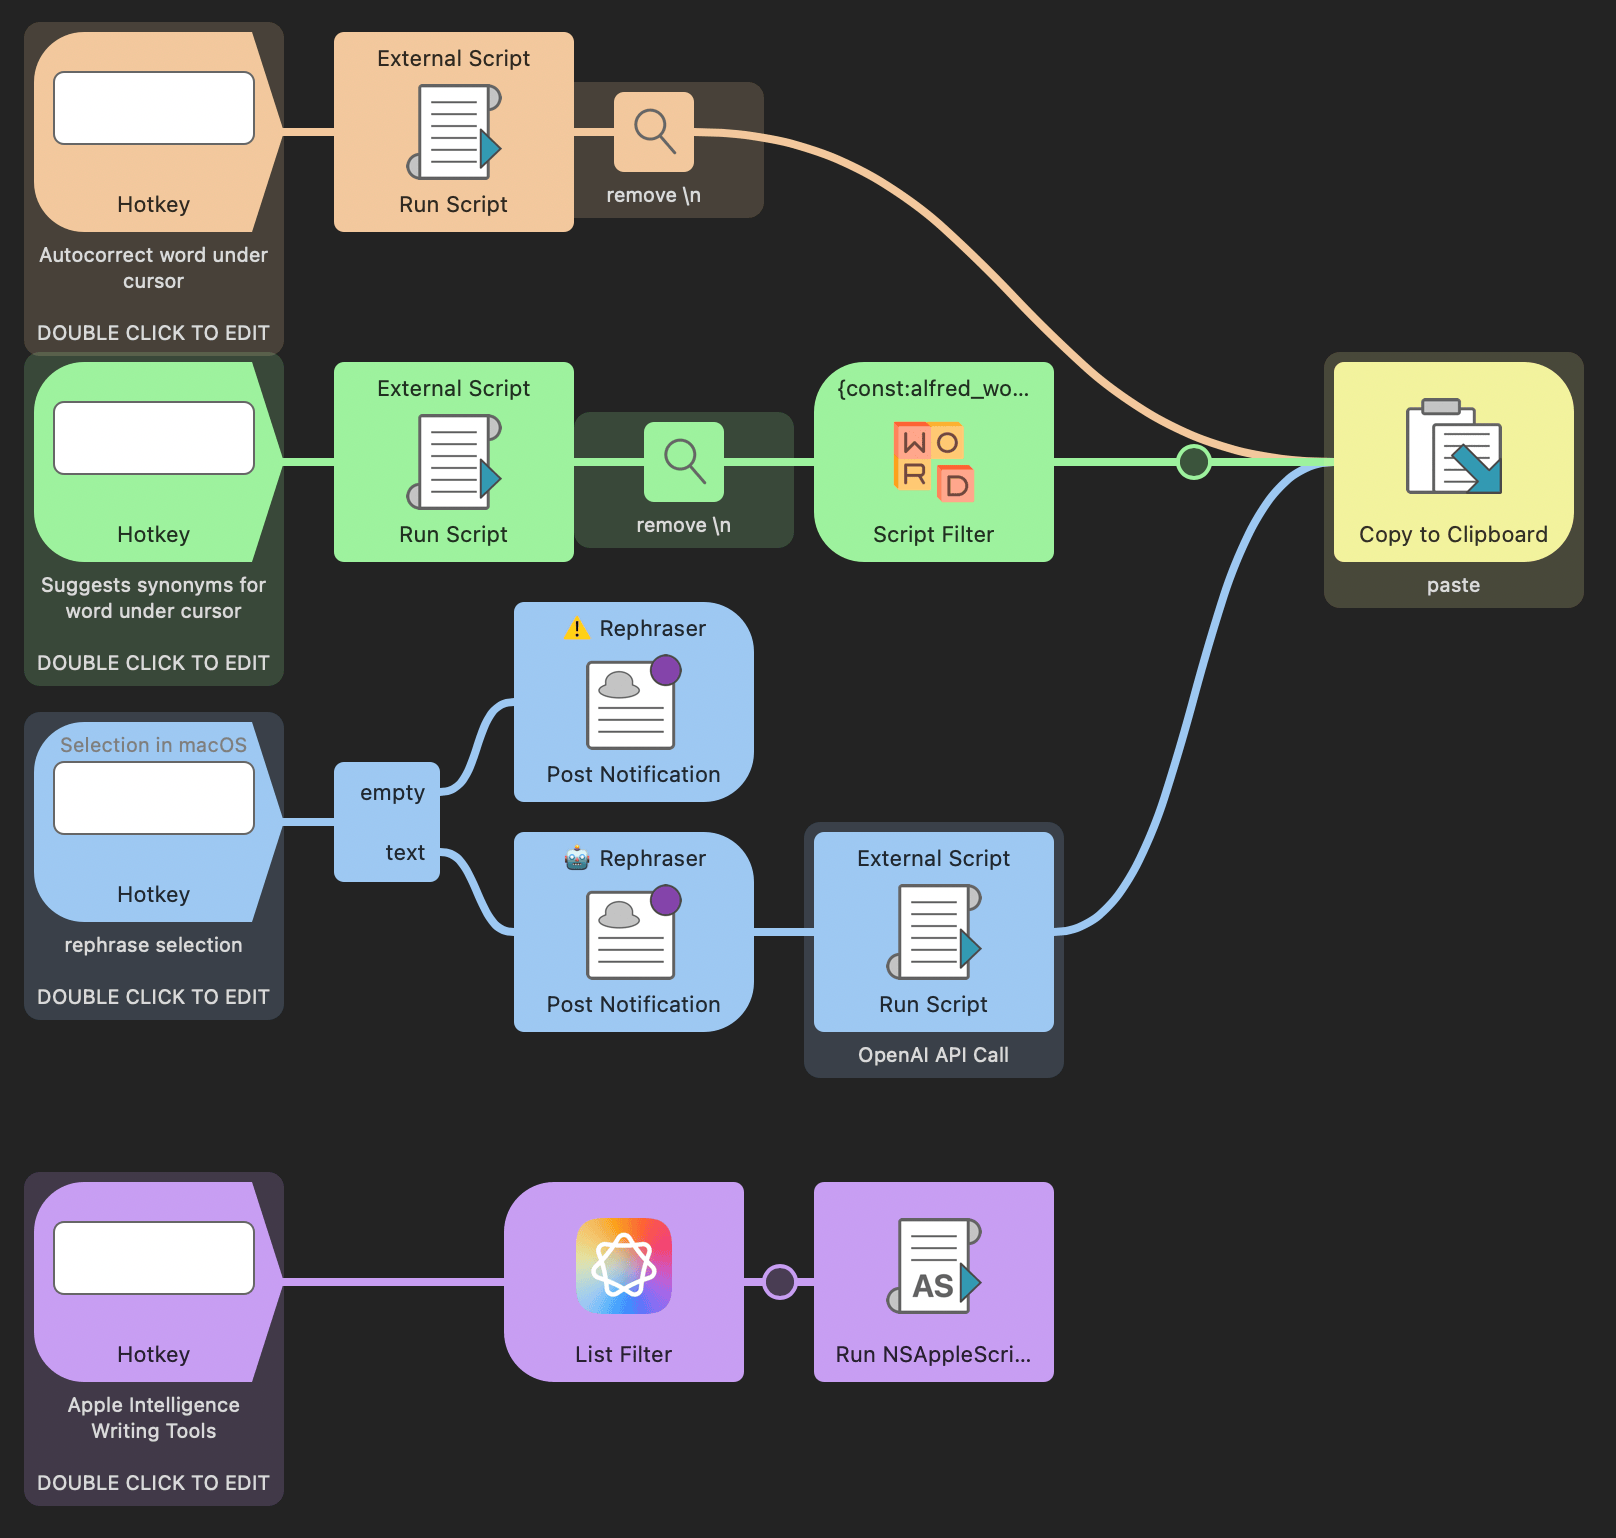
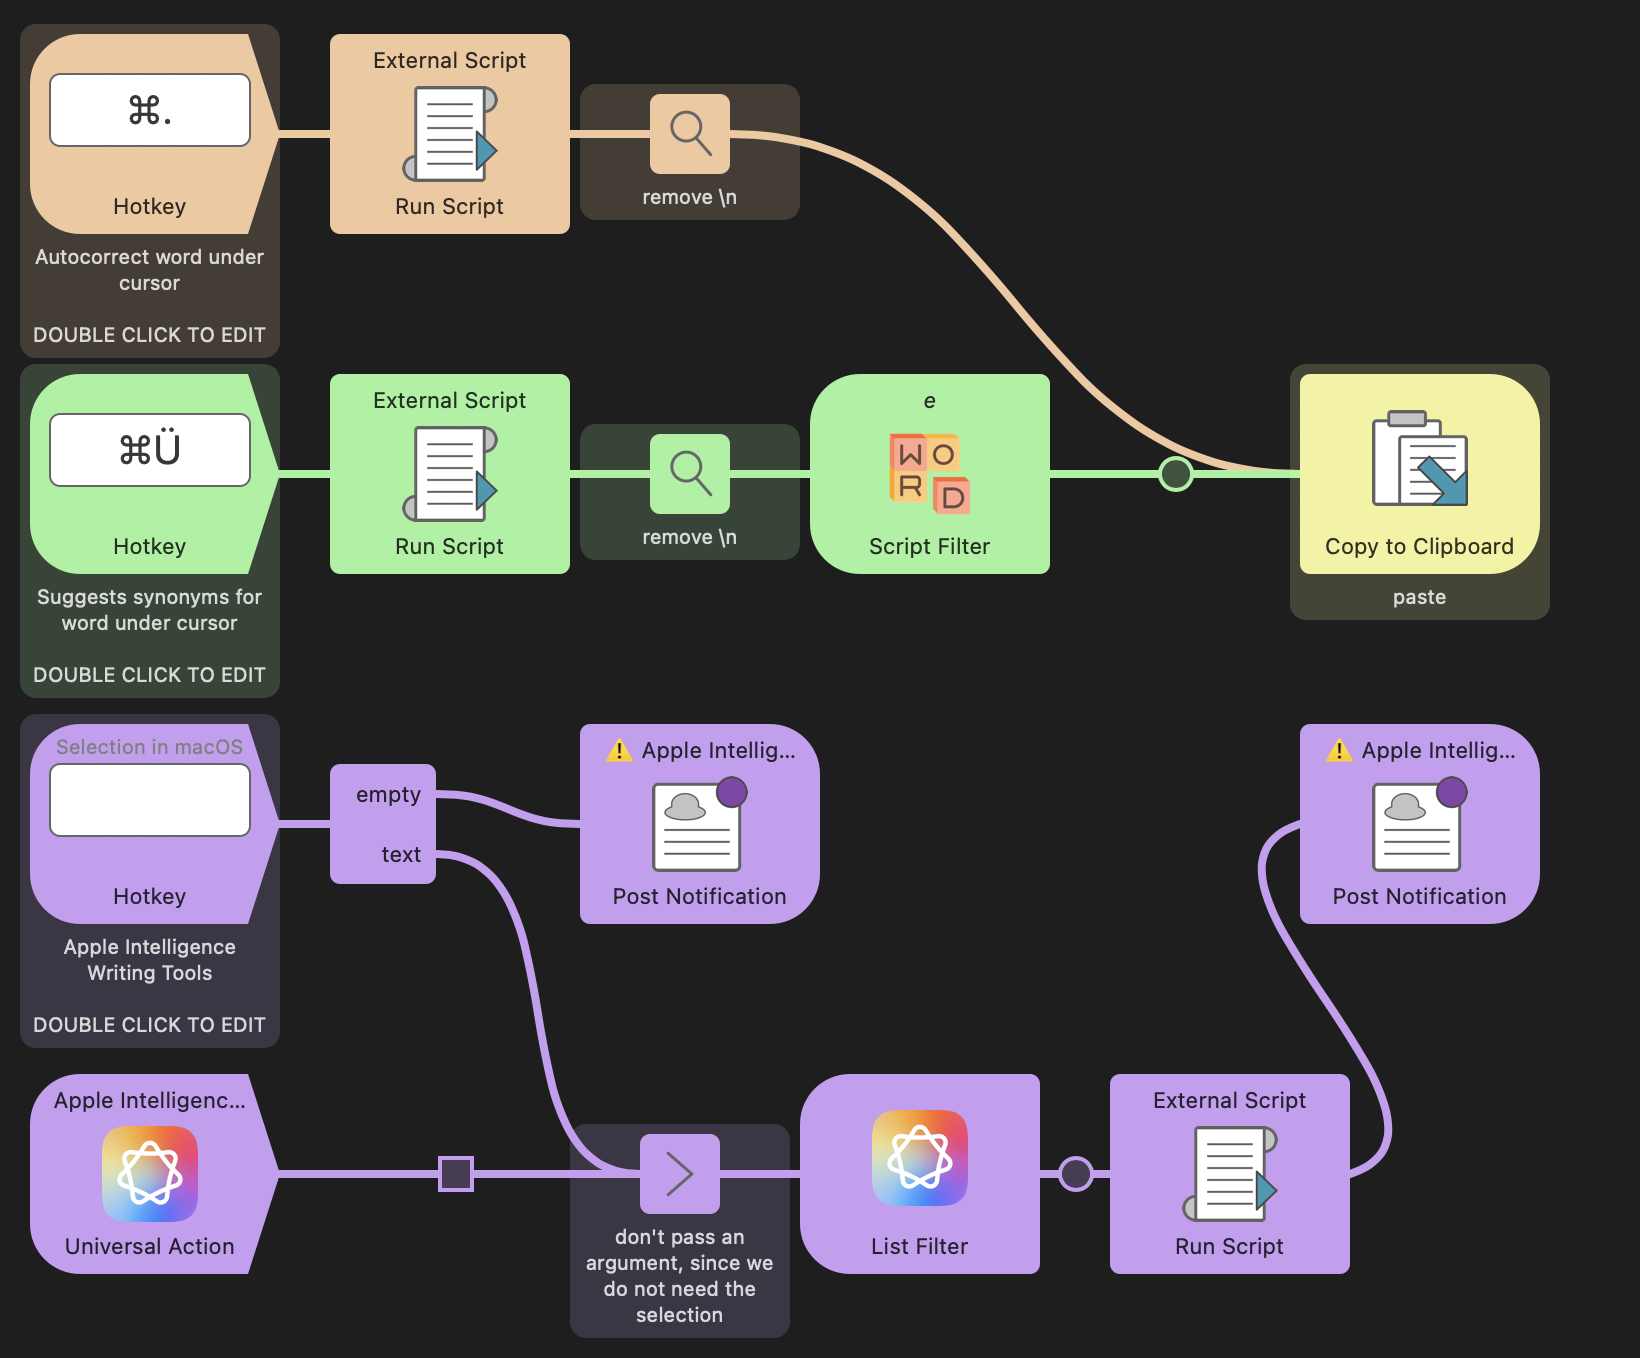
chrisgrieser/writing-assistant: update readme

diff --git a/workflows/chrisgrieser/writing-assistant/readme.md b/workflows/chrisgrieser/writing-assistant/readme.md
@@ -11,3 +11,7 @@ Place your cursor in a word or select text then press the defined Hotkeys to:
 * Invoke Apple Intelligence Writing Tools.
 
 ![Canvas screenshot](images/workflow-canvas.png)
+
+You can also trigger the synonym suggestion with the keyword `syn`:
+
+![Canvas screenshot](images/syn.png)
